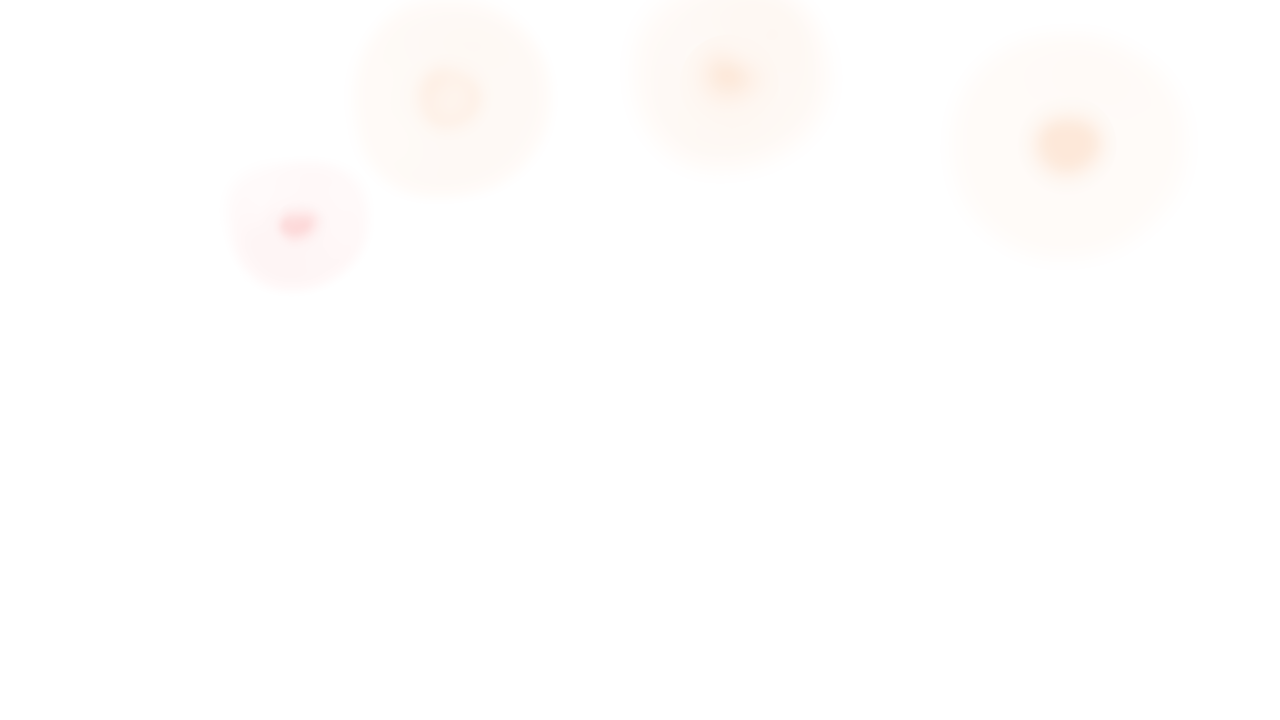
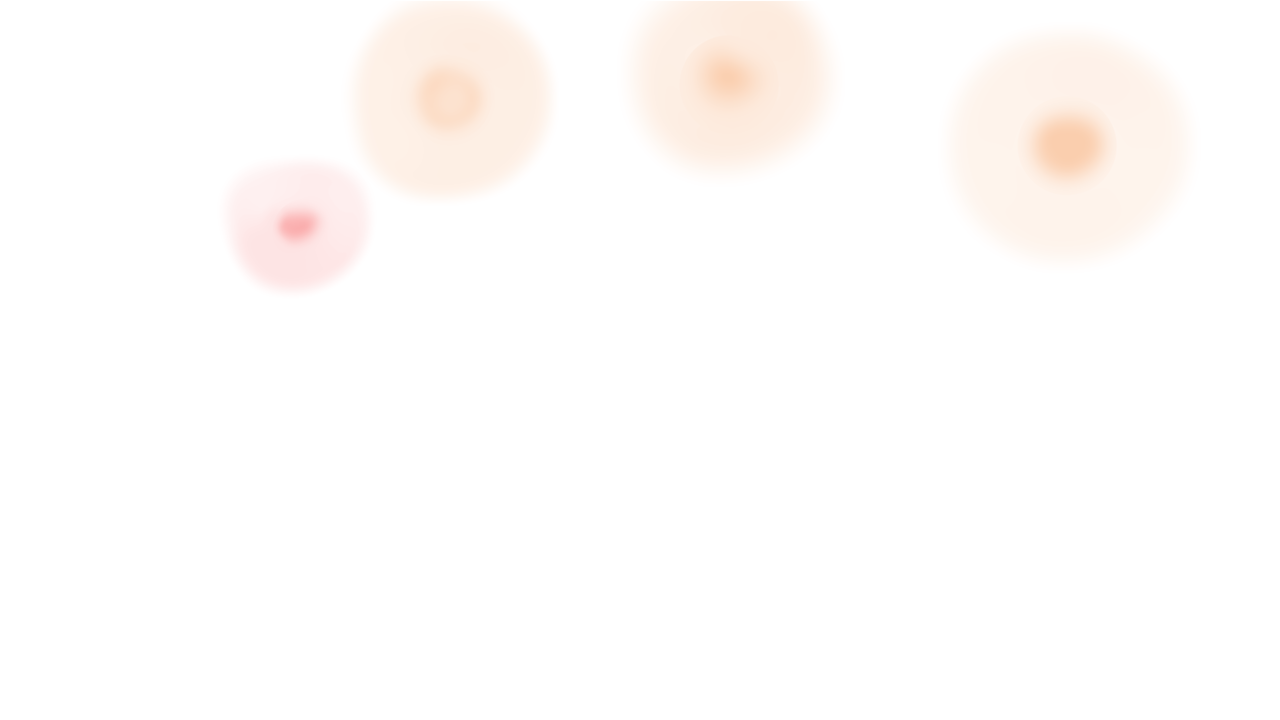
Update new glowing layer

diff --git a/src/animation.js b/src/animation.js
@@ -73,6 +73,8 @@ export default class LandingAnimation {
         this.add(new Character(this.stage))
         this.add(new Background(this.stage, 'frontground'))
         this.add(new Background(this.stage, 'glowing', BLEND_MODES.LUMINOSITY))
+        this.add(new Background(this.stage, 'glowing2', BLEND_MODES.LUMINOSITY))
+
 
         this.animate()
     }
